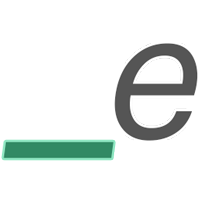
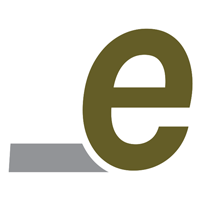
Colors & images update.

diff --git a/index.html b/index.html
@@ -64,13 +64,13 @@
 			</div>
 			<div class="padding">
 				<ul class="lines">
-					<li><a href="extensions/events/">Events — (RC1, producción)</a></li>
-					<li><a href="extensions/dom/">DOM — (RC1, producción)</a></li>
-					<li><a href="extensions/reactive/">Reactive — (RC1, producción)</a></li>
-					<li><a href="extensions/http/">HTTP — (RC1, producción)</a></li>
-					<li><a href="extensions/routing/">Routing — (RC1, producción)</a></li>
-					<li><a href="extensions/components/">Components — (RC1, producción)</a></li>
-					<li><a href="extensions/handlers/">Handlers — (RC1, producción)</a></li>
+					<li><a href="extensions/events/">Events — (RC1, prod.)</a></li>
+					<li><a href="extensions/dom/">DOM — (RC1, prod.)</a></li>
+					<li><a href="extensions/reactive/">Reactive — (RC1, prod.)</a></li>
+					<li><a href="extensions/http/">HTTP — (RC1, prod.)</a></li>
+					<li><a href="extensions/routing/">Routing — (RC1, prod.)</a></li>
+					<li><a href="extensions/components/">Components — (RC1, prod.)</a></li>
+					<li><a href="extensions/handlers/">Handlers — (RC1, prod.)</a></li>
 				</ul>
 			</div>
 		</section>

diff --git a/estructura.styles.css b/estructura.styles.css
@@ -1,6 +1,6 @@
 :root {
 	--main-color: #555;
-	--secondary-color: #8de6c1;
+	--secondary-color: #fbf7ea; /*#8de6c1*/
     --tertiary-color: #eee;
 
 	--black-color: #000;
@@ -8,10 +8,10 @@
 
 	--text-color: #000;
 	--bg-color: #fff;
-	--links-color: #318964;
-    --links-color-hover-active-focus: #164635;
-	--headers-color: #19523E;
-    --headers-bg-color: #c1eedb;
+	--links-color: #886d1b; /* #318964 */
+    --links-color-hover-active-focus: #3c300c; /* #164635 */
+	--headers-color: #541;
+    --headers-bg-color: #f3e7c3; /* #c1eedb */
     --headers-color-2: var(--main-color);
     --headers-bg-color-2: var(--tertiary-color);
 

diff --git a/main.js b/main.js
@@ -26,7 +26,7 @@ document.addEventListener('DOMContentLoaded', function(){
 
     var link = document.createElement('link');
     link.rel = 'stylesheet';
-    link.href = 'https://cdn.jsdelivr.net/gh/highlightjs/cdn-release@11.11.1/build/styles/atom-one-dark.css';
+    link.href = 'https://cdn.jsdelivr.net/gh/highlightjs/cdn-release@11.11.1/build/styles/stackoverflow-dark.min.css';
     document.body.appendChild(link);
 
     var script = document.createElement('script');
